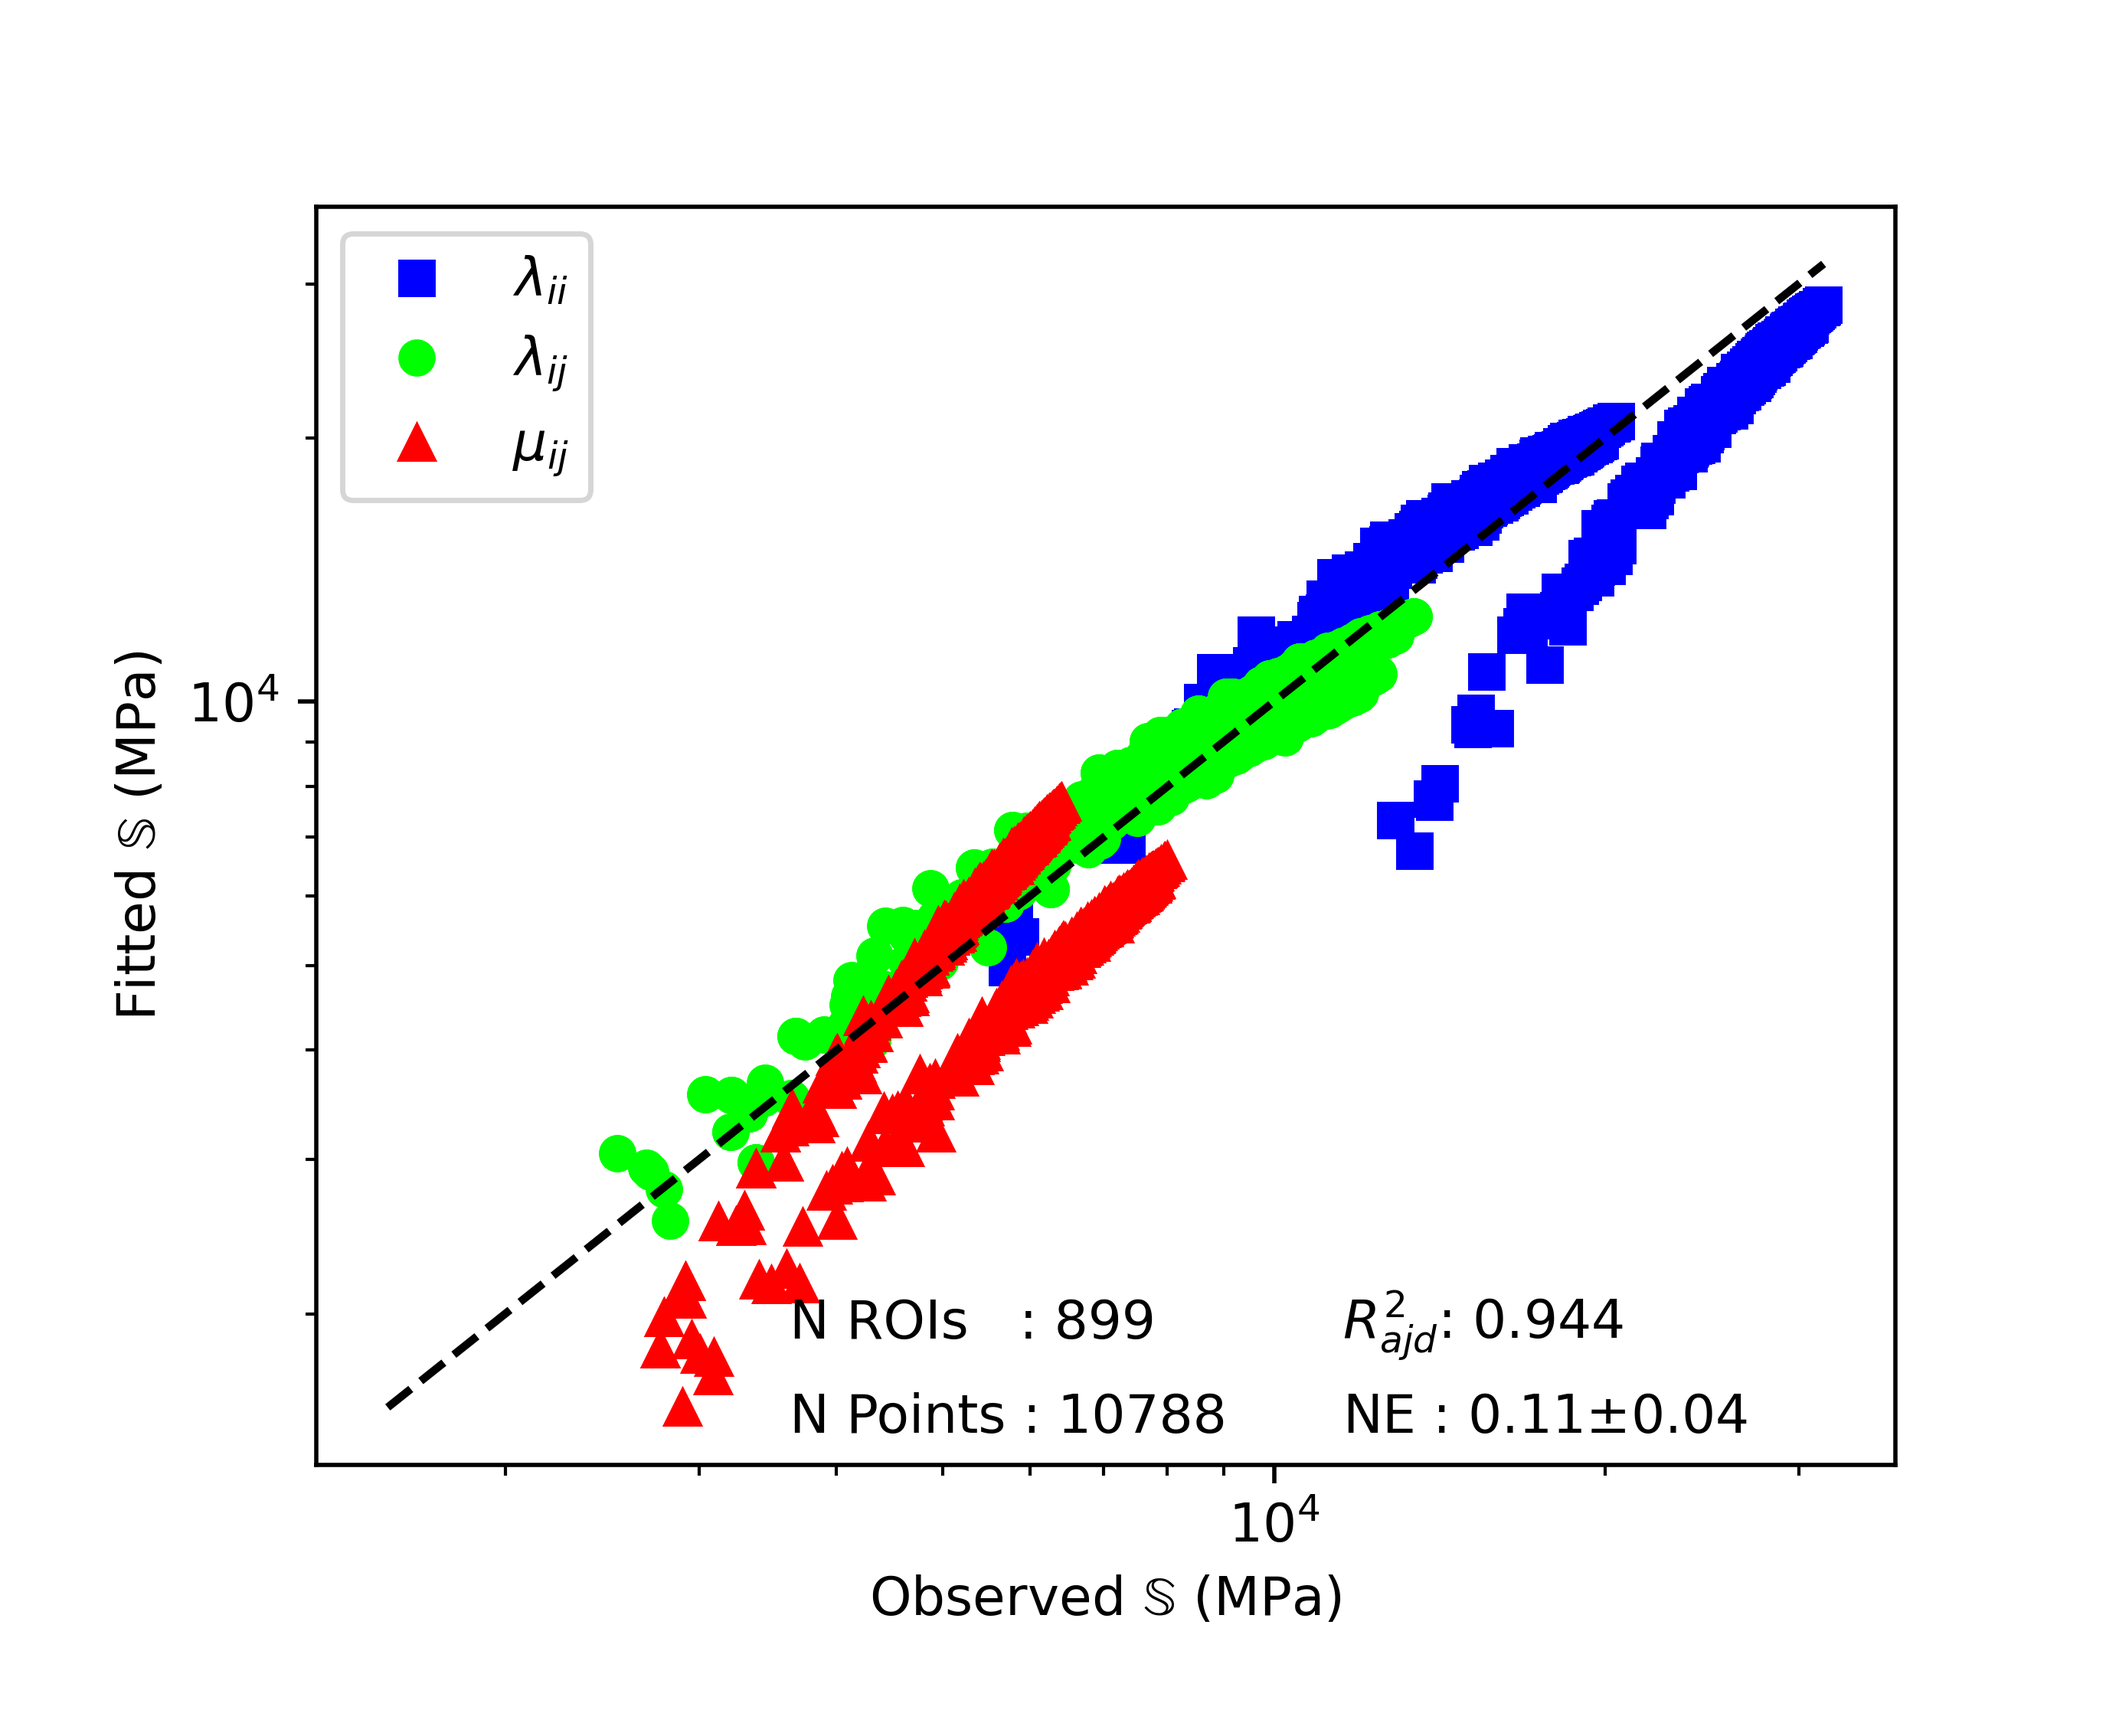
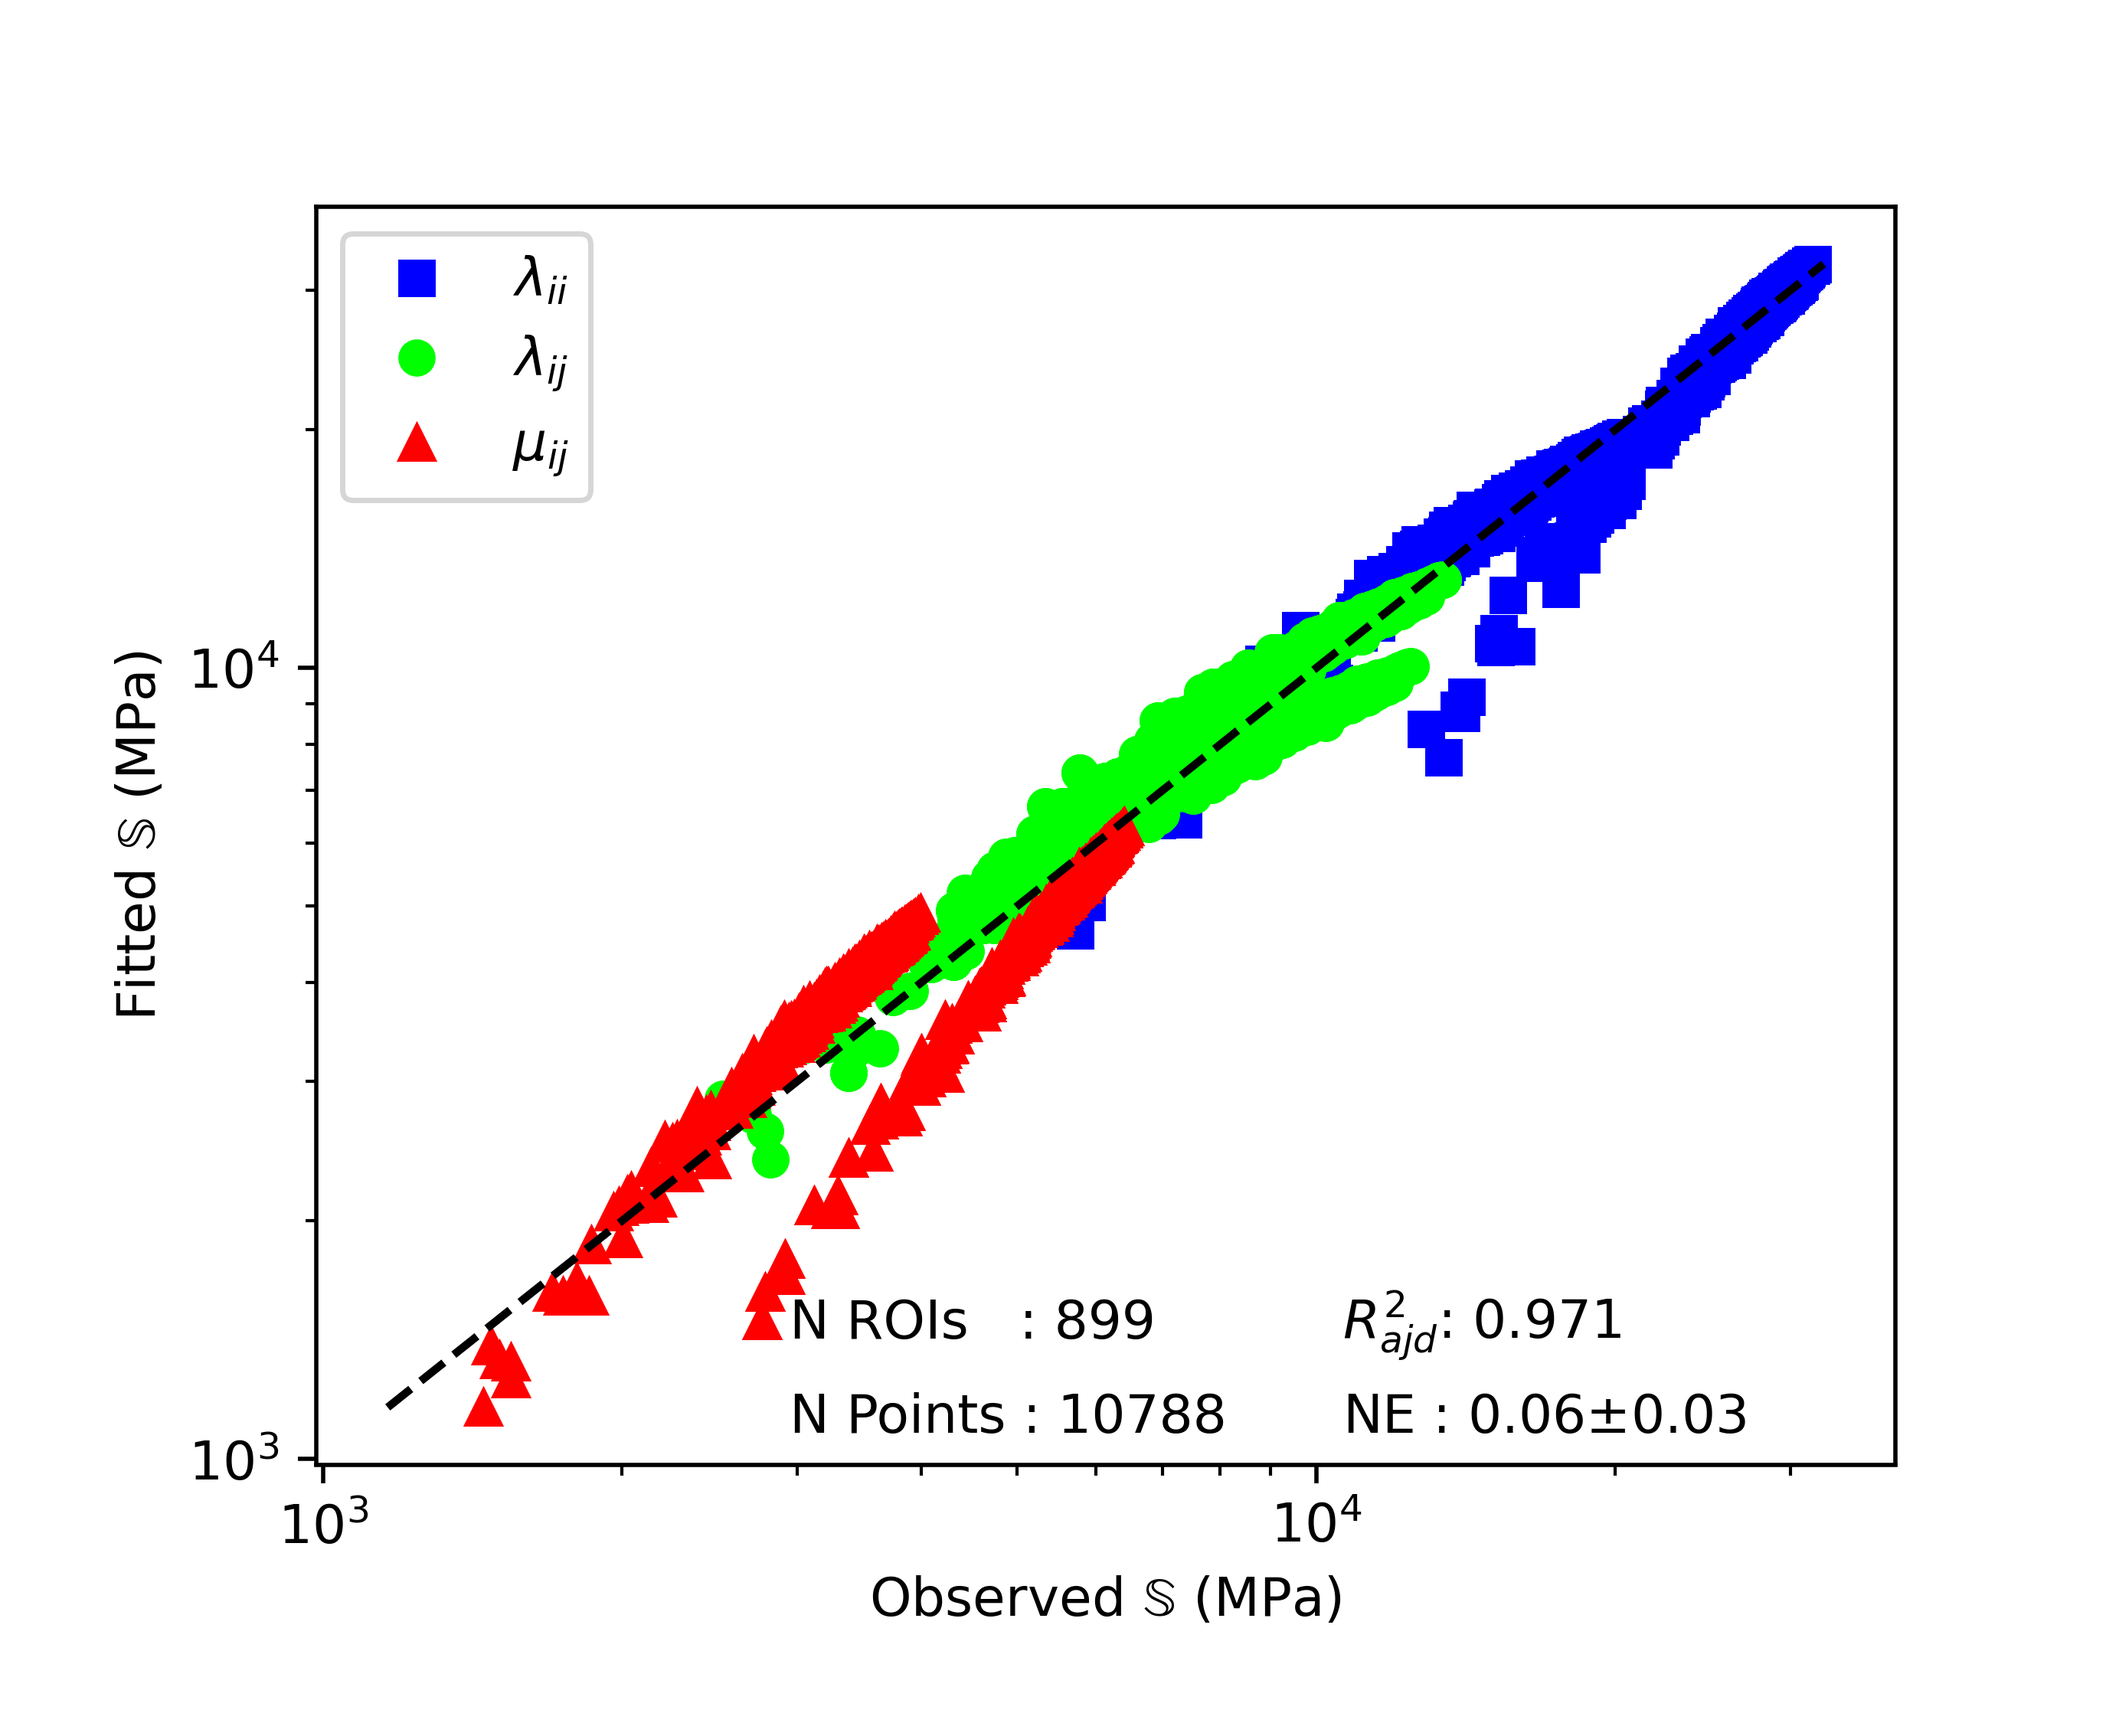
Correct for factor 2 in entry 66 and update results

diff --git a/Scripts/07_ComparisontoRUS.py b/Scripts/07_ComparisontoRUS.py
@@ -29,32 +29,6 @@ from Utils import Read, Tensor
 
 #%% Functions
 
-def TransverseTensor(Lambda0, Mu0, m1, m3):
-
-    m = [m1, m1, m3]
-    m1, m2, m3 = np.eye(3)
-    M1, M2, M3 = np.outer(m1,m1), np.outer(m2,m2), np.outer(m3,m3)
-    M = [M1, M2, M3]
-
-    S4 = np.zeros((3,3,3,3))
-    for i in range(3):
-        S4 += Lambda0 * m[i]**2 * Tensor.Dyadic(M[i],M[i])
-        S4 += Lambda0 * m[i]*m[i-1] * Tensor.Dyadic(M[i],M[i-1])
-        S4 += Lambda0 * m[i]*m[i-1] * Tensor.Dyadic(M[i-1],M[i])
-        S4 +=   Mu0 * m[i]**2 * Tensor.Symmetric(M[i],M[i])
-        S4 +=   2*Mu0 * m[i]*m[i-1] * Tensor.Symmetric(M[i-1],M[i])
-    
-    return S4
-
-def TransverseResiduals(Parameters, m1, m3, A):
-
-    Lambda0, Mu0 = Parameters
-    B = TransverseTensor(Lambda0, Mu0, m1, m3)
-    B = Tensor.IsoMorphism3333_66(B)
-    Residuals = abs(Tensor.Norm(A) - Tensor.Norm(B))
-    
-    return Residuals
-
 def OLS(X,Y):
     XTXi = np.linalg.inv(X.T * X)
     B = XTXi * X.T * Y
@@ -137,7 +111,7 @@ def ExpVsSim_OLS(X, Y, Alpha=0.95, FName=''):
     Axes.annotate(r'N Points : ' + str(len(Y)), xy=(0.3, 0.025), xycoords='axes fraction')
     Axes.annotate(r'$R^2_{ajd}$: ' + format(round(R2adj, 3),'.3f'), xy=(0.65, 0.1), xycoords='axes fraction')
     Axes.annotate(r'NE : ' + format(round(NE.mean(), 2), '.2f') + '$\pm$' + format(round(NE.std(), 2), '.2f'), xy=(0.65, 0.025), xycoords='axes fraction')
-    Axes.annotate(r'y = : ' + format(round(B[0,0],2), '.2f') + ' + ' + format(round(B[1,0], 2), '.2f') + 'x', xy=(0.3, 0.85), xycoords='axes fraction')
+    Axes.annotate(r'y = ' + format(round(B[0,0],2), '.2f') + ' + ' + format(round(B[1,0], 2), '.2f') + 'x', xy=(0.3, 0.85), xycoords='axes fraction')
     Axes.set_ylabel('Simulation $\mathrm{\mathbb{S}}$ (MPa)')
     Axes.set_xlabel('Experiment $\mathrm{\mathbb{S}}$ (MPa)')
     # plt.xscale('log')
@@ -154,8 +128,11 @@ def ExpVsSim_OLS(X, Y, Alpha=0.95, FName=''):
 
 def Main():
 
+    # Read CV data
+    CVData = pd.read_csv(Path(__file__).parents[1] / 'Results' / 'CV.csv', index_col=[0,1])
+
     # Read RUS data
-    DataPath = Path(__file__).parents[1] / '_Data'
+    DataPath = Path(__file__).parents[1] / 'Data'
     RUS = pd.read_csv(DataPath / '00_RUSData.csv')
     RUS['S12'] = RUS['S11'] - 2*RUS['S66']
 
@@ -176,8 +153,8 @@ def Main():
         mRUS[i,5,5] = Row['S66']
 
     # Define paths
-    ResultsPath = Path(__file__).parents[1] / '_Results' / 'Cortical' / 'Homogenisation'
-    FabricPath = Path(__file__).parents[1] / '_Results' /  'Cortical' /'Fabric'
+    ResultsPath = Path(__file__).parents[1] / 'Results' / 'Homogenisation'
+    FabricPath = Path(__file__).parents[1] / 'Results' /'Fabric'
     Folders = sorted([Folder.name for Folder in FabricPath.iterdir() if Folder.is_dir()])
 
     # List simulations output files
@@ -193,10 +170,14 @@ def Main():
     Transverse = np.zeros((len(Folders), len(ROIs), 6, 6))
     Fabric = np.zeros((len(Folders), len(ROIs), 3))
     Rho = np.zeros((len(Folders), len(ROIs)))
+    CV = np.zeros((len(Folders), len(ROIs)))
     for f, Folder in enumerate(Folders):
 
         # Iterate over each ROI
         for r, ROI in enumerate(ROIs):
+
+            # Get sample CV
+            CV[f,r] = CVData.loc[(Folder, ROI),'CV']
 
             # Get MIL results
             FabricData = Read.Fabric(FabricPath / Folder / (ROI+'.fab'))
@@ -234,14 +215,6 @@ def Main():
     mIsotropic = np.mean(Isotropic, axis=1)
     mTransverse = np.mean(Transverse, axis=1)
 
-    # Project tensors onto transverse isotropy
-    Lambda0 = 1E4
-    Mu0 = 2500
-    m1 = (mFabric[0,0] + mFabric[0,1]) / 2
-    m3 = mFabric[0,2]
-    Lambda0, Mu0 = minimize(TransverseResiduals, [Lambda0, Mu0], args=(m1, m3, mTransverse[0])).x
-    Tensor.IsoMorphism3333_66(TransverseTensor(Lambda0, Mu0, m1, m3))
-
     # Plot average ROI BV/TV vs RUS BV/TV
     X = np.ones((len(mRho),2))
     X[:,1] = 1-RUS['Rho']
@@ -251,25 +224,19 @@ def Main():
     X = np.linspace(Min, Max)
     Y = B[0,0] + X * B[1,0]
 
+
     Figure, Axis = plt.subplots(1,1,dpi=200)
     Axis.plot(1-RUS['Rho'], 1-mRho, linestyle='none', color=(1,0,0),
-              marker='o', fillstyle='none', label='Data')
-    Axis.plot(X, Y, color=(0,0,1), linestyle='--', label='Fit')
-    Axis.plot([Min,Max], [Min,Max], color=(0,0,0), linestyle='--', label='1:1 line')
-    Axis.annotate(f'y = {round(B[0,0],2)} + {round(B[1,0],2)} x', (0.25,0.05), color=(0,0,1))
+              marker='o', label='Data')
+    Axis.plot(X, Y, color=(0,0,0), linestyle='--', label='Fit')
+    Axis.plot([Min,Max], [Min,Max], color=(0.4,0.4,0.4), linestyle='--', label='1:1 line')
+    Axis.annotate(f'y = {round(B[0,0],2)} + {round(B[1,0],2)} x', (0.25,0.05), color=(0,0,0))
     Axis.set_xlabel(r'RUS 1-$\rho$ (-)')
     Axis.set_ylabel(r'Average ROI 1-$\rho$ (-)')
     plt.legend()
-    plt.savefig(Path(__file__).parents[1] / '_Results/ExpSim_Rho.png')
+    plt.savefig(Path(__file__).parents[1] / 'Results/ExpSim_Rho.png')
     plt.show(Figure)
 
-    # Filter out sample with BV/TV < 0.7
-    F = mRho > 0.7
-    mIsotropic = mIsotropic[F]
-    mTransverse = mTransverse[F]
-    mRUS = mRUS[F]
-    mRho = mRho[F]
-    
     # Compare with RUS
     X = np.matrix(np.ones((len(mRho)*12, 2)))
     Y = np.matrix(np.zeros((len(mRho)*12, 1)))
@@ -301,31 +268,78 @@ def Main():
                          [mTransverse[f][2,2]],
                          [mTransverse[f][3,3]],
                          [mTransverse[f][4,4]],
-                         [mTransverse[f][5,5]]]
+                         [mTransverse[f][5,5]/2]]
        
-    FName = Path(__file__).parents[1] / '_Results/ExpSim_S.png'
+    FName = Path(__file__).parents[1] / 'Results/ExpSim_S_Raw.png'
     Parameters, R2adj, NE = ExpVsSim_OLS(X, Y/1E3, FName=str(FName))
 
+    # Project tensors onto transverse isotropy
+    mProjected, NE = Tensor.TransProj(mTransverse)
+
+    # Compare with RUS
+    X = np.matrix(np.ones((len(mRho)*12, 2)))
+    Y = np.matrix(np.zeros((len(mRho)*12, 1)))
+    for f in range(len(mRho)):
+        
+        Start, Stop = 12*f, 12*(f+1)
+        
+        X[Start:Stop,1] = [[mRUS[f][0,0]/1E3],
+                           [mRUS[f][0,1]/1E3],
+                           [mRUS[f][0,2]/1E3],
+                           [mRUS[f][1,0]/1E3],
+                           [mRUS[f][1,1]/1E3],
+                           [mRUS[f][1,2]/1E3],
+                           [mRUS[f][2,0]/1E3],
+                           [mRUS[f][2,1]/1E3],
+                           [mRUS[f][2,2]/1E3],
+                           [mRUS[f][3,3]/1E3],
+                           [mRUS[f][4,4]/1E3],
+                           [mRUS[f][5,5]/1E3]]
+        
+        Y[Start:Stop] = [[mProjected[f][0,0]],
+                         [mProjected[f][0,1]],
+                         [mProjected[f][0,2]],
+                         [mProjected[f][1,0]],
+                         [mProjected[f][1,1]],
+                         [mProjected[f][1,2]],
+                         [mProjected[f][2,0]],
+                         [mProjected[f][2,1]],
+                         [mProjected[f][2,2]],
+                         [mProjected[f][3,3]],
+                         [mProjected[f][4,4]],
+                         [mProjected[f][5,5]/2]]
+       
+    FName = Path(__file__).parents[1] / 'Results/ExpSim_S_Proj.png'
+    Parameters, R2adj, NE = ExpVsSim_OLS(X, Y/1E3, FName=str(FName))
+
+    # Filter out samples with high CV
+    F = np.all(CV < 0.263, axis=1)
+    F12 = np.repeat(F, 12)
+    FName = Path(__file__).parents[1] / 'Results/ExpSim_S_Filt.png'
+    Parameters, R2adj, NE = ExpVsSim_OLS(X[F12], Y[F12]/1E3, FName=str(FName))
+    
+
+
     # Compare degree of anisotropy
-    X = np.ones((len(mRho),2))
-    X[:,1] = 1-mRho
-    Args = np.argsort(1-mRho)
+    X = np.ones((len(mRho[F]),2))
+    X[:,1] = 1-mRho[F]
+    Args = np.argsort(1-mRho[F])
     Colors = [(0,0,1),(1,0,0)]
     Labels = ['Experiment','Simulation']
 
     Figure, Axis = plt.subplots(1,1,dpi=200)
-    for i, (Y, C, L) in enumerate(zip([mRUS, mTransverse], Colors, Labels)):
+    for i, (Y, C, L) in enumerate(zip([mRUS[F], mTransverse[F]], Colors, Labels)):
         Y = Y[:,2,2] / Y[:,0,0]
         B = OLS(np.matrix(X),np.matrix(Y).T)
-        Axis.plot(1-mRho, Y, color=C, label=L,
+        Axis.plot(1-mRho[F], Y, color=C, label=L,
                 marker='o', fillstyle='none', linestyle='none')
-        Axis.plot((1-mRho)[Args], B[0,0] + (1-mRho)[Args]*B[1,0], color=C, linestyle='--')
+        Axis.plot((1-mRho[F])[Args], B[0,0] + (1-mRho[F])[Args]*B[1,0], color=C, linestyle='--')
         Axis.annotate(f'y = {round(B[0,0],2)} + {round(B[1,0],2)}x', color=C,
                       xy=(0.0475, 1.76-i*0.05))
     Axis.set_xlabel(r'1-$\rho$ (-)')
     Axis.set_ylabel(r'$S_{33}$ / $S_{11}$ (-)')
     plt.legend()
-    plt.savefig(Path(__file__).parents[1] / '_Results/ExpSim_AniS.png')
+    plt.savefig(Path(__file__).parents[1] / 'Results/ExpSim_AniS.png')
     plt.show(Figure)
 
     # Same for compliance
@@ -337,25 +351,25 @@ def Main():
     for i, S in enumerate(mRUS):
         E_RUS[i] = np.linalg.inv(S)
 
-    X = np.ones((len(mRho),2))
-    X[:,1] = 1-mRho
-    Args = np.argsort(1-mRho)
+    X = np.ones((len(mRho[F]),2))
+    X[:,1] = 1-mRho[F]
+    Args = np.argsort(1-mRho[F])
     Colors = [(0,0,1),(1,0,0)]
     Labels = ['Experiment','Simulation']
 
     Figure, Axis = plt.subplots(1,1,dpi=200)
-    for i, (Y, C, L) in enumerate(zip([E_RUS, E_Sim], Colors, Labels)):
+    for i, (Y, C, L) in enumerate(zip([E_RUS[F], E_Sim[F]], Colors, Labels)):
         Y = Y[:,0,0] / Y[:,2,2]
         B = OLS(np.matrix(X),np.matrix(Y).T)
-        Axis.plot(1-mRho, Y, color=C, label=L,
+        Axis.plot(1-mRho[F], Y, color=C, label=L,
                 marker='o', fillstyle='none', linestyle='none')
-        Axis.plot((1-mRho)[Args], B[0,0] + (1-mRho)[Args]*B[1,0], color=C, linestyle='--')
+        Axis.plot((1-mRho[F])[Args], B[0,0] + (1-mRho[F])[Args]*B[1,0], color=C, linestyle='--')
         Axis.annotate(f'y = {round(B[0,0],2)} + {round(B[1,0],2)}x', color=C,
                       xy=(0.2, 1.45-i*0.05))
     Axis.set_xlabel(r'1-$\rho$ (-)')
     Axis.set_ylabel(r'$E_{33}$ / $E_{11}$ (-)')
     plt.legend()
-    plt.savefig(Path(__file__).parents[1] / '_Results/ExpSim_AniE.png')
+    plt.savefig(Path(__file__).parents[1] / 'Results/ExpSim_AniE.png')
     plt.show(Figure)
 
 

diff --git a/Utils/Tensor.py b/Utils/Tensor.py
@@ -576,7 +576,7 @@ class Tensor():
                           [C13, C13, C33,   0,    0,       0],
                           [  0,   0,   0, C44,    0,       0],
                           [  0,   0,   0,   0,  C44,       0],
-                          [  0,   0,   0,   0,    0, (C11-C12)/2]])
+                          [  0,   0,   0,   0,    0, C11-C12]])
             
 
         else:
@@ -614,7 +614,7 @@ class Tensor():
             C[:,2,2] = C33
             C[:,3,3] = C44
             C[:,4,4] = C44
-            C[:,5,5] = (C11 - C12)/2
+            C[:,5,5] = C11 - C12
 
         # Compute Frobenius norm error
         NE = np.sum((A - C)**2, axis=(1,2)) / np.sum(A**2, axis=(1,2))

diff --git a/Article/TabZysset.tex b/Article/TabZysset.tex
@@ -7,7 +7,7 @@
       Model & $\lambda_0$ & $\lambda_0'$ & $\mu_0$ &  $k$ &  $l$ & $R^2_{adj}$ &   NE \\
 \midrule
 Orthotropic &       19831 &        12618 &    3527 & 2.48 & 0.57 &        0.99 & 0.05 \\
- Transverse &       17505 &        13117 &    4016 & 2.49 & 0.39 &        0.94 & 0.11 \\
+ Transverse &       19334 &        13234 &    3216 & 2.49 & 0.65 &        0.97 & 0.06 \\
 \bottomrule
 \end{tabular}
 \end{table}
